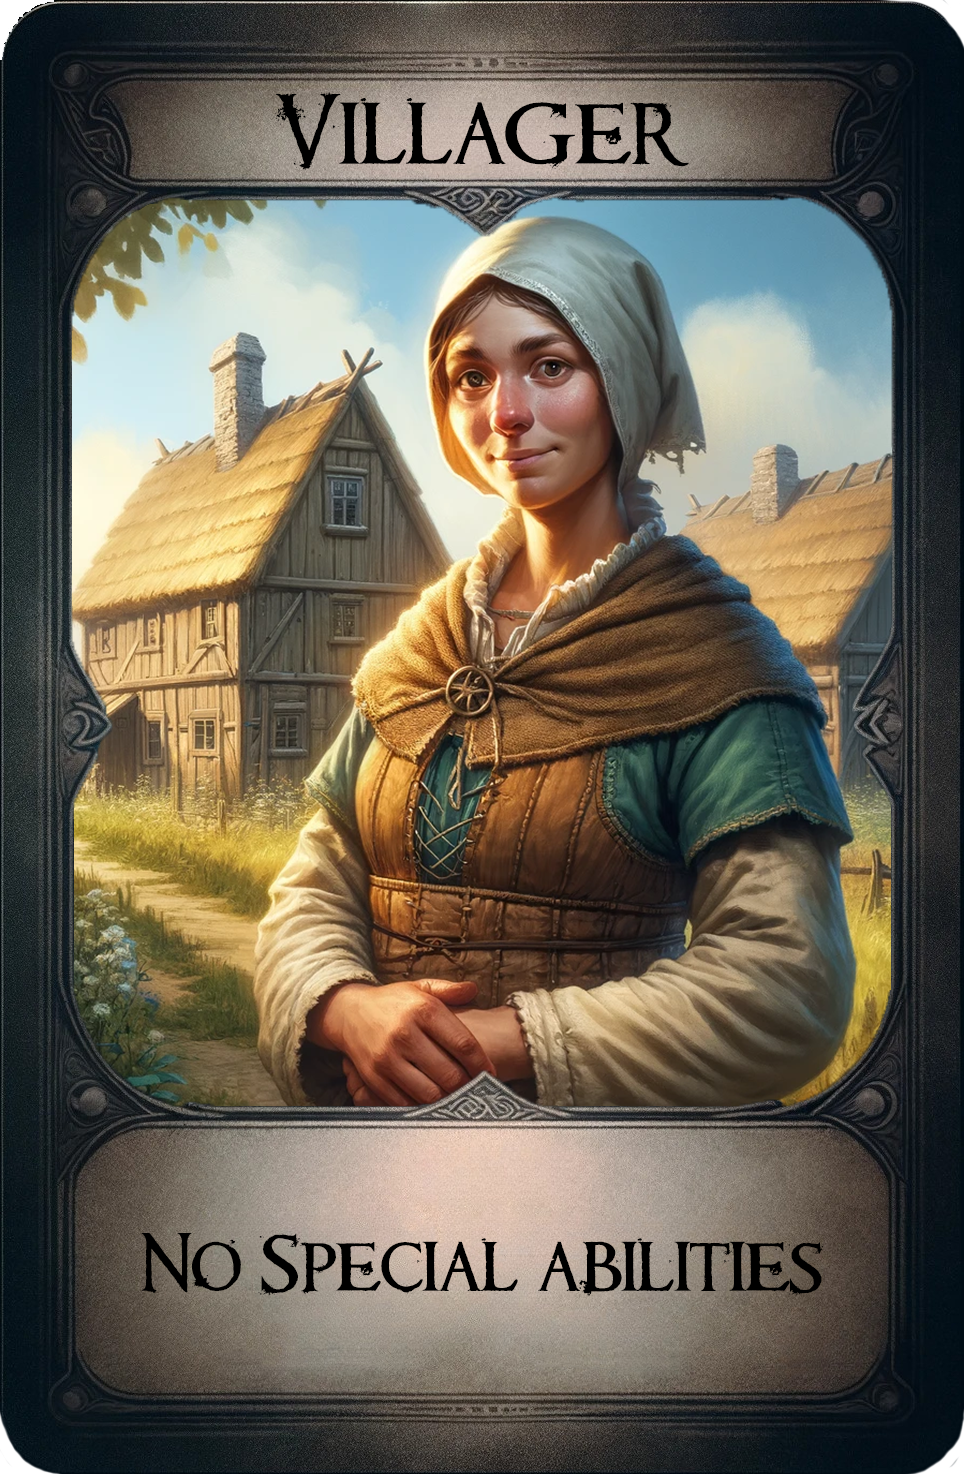
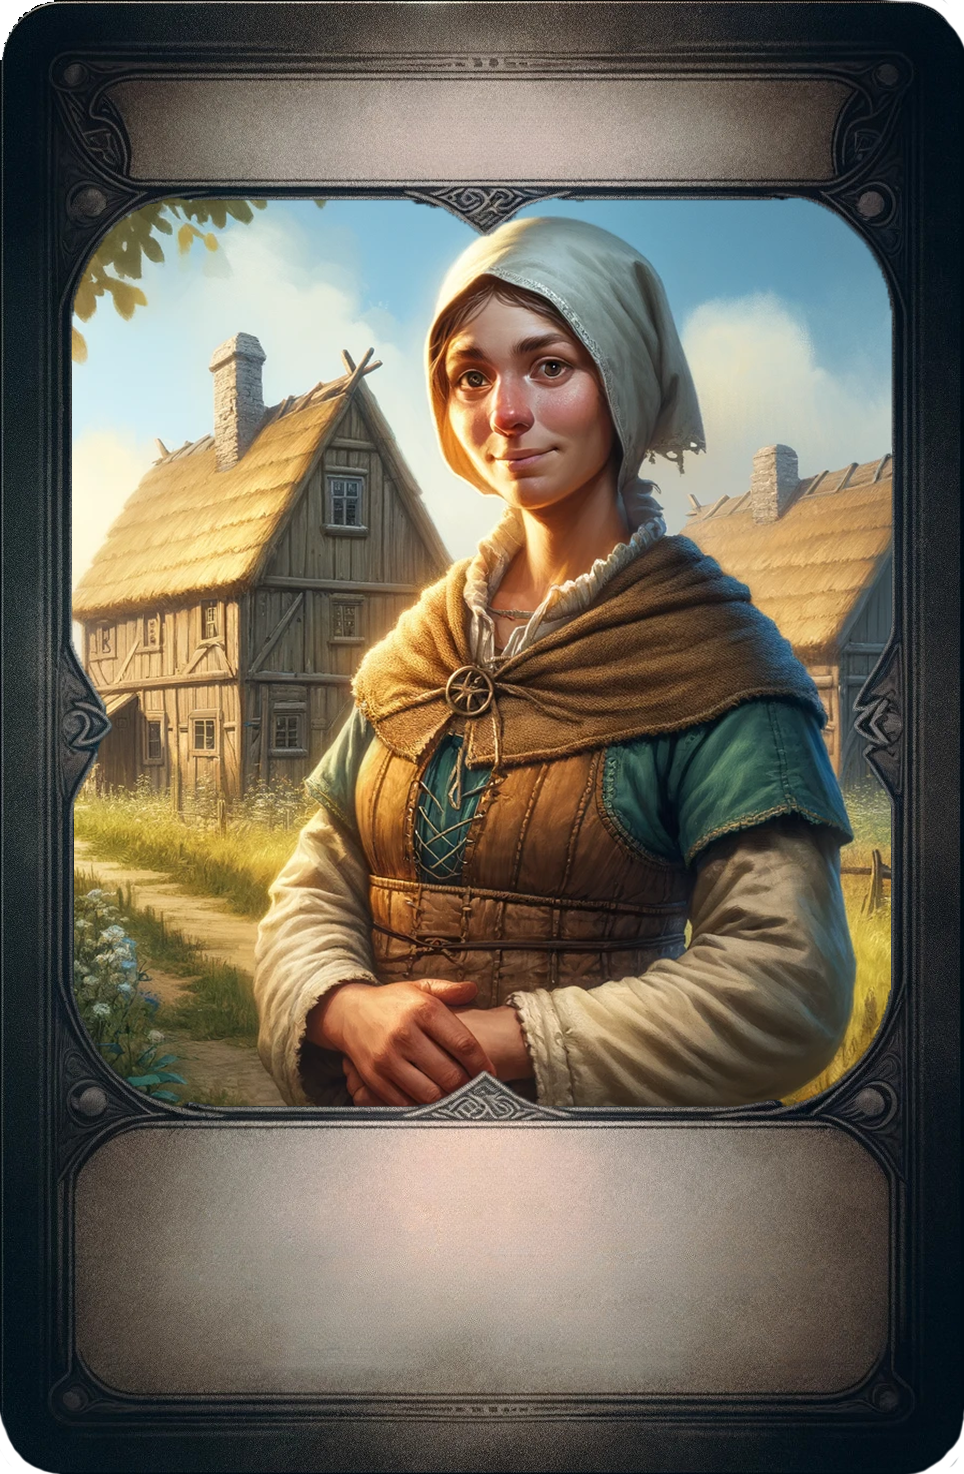
webrtc

Changed region(s): [[0.2801, 0.0624, 0.7158, 0.1248], [0.1245, 0.8114, 0.529, 0.8738], [0.5602, 0.8426, 0.8714, 0.8738]]

diff --git a/background.html b/background.html
@@ -9,6 +9,11 @@
             margin: 0;
         }
 
+        @font-face {
+            font-family: Vinque;
+            src: url(vinque.ttf);
+        }
+
         #main-container {
             background-color: #1c1700;
             background-image: url(https://www.transparenttextures.com/patterns/fabric-1-light.png);
@@ -124,16 +129,25 @@
             color: black;
         }
 
+        @container card-desc-container (min-width: 700px) {
+            div {
+                font-size: 12em;
+            }
+        }
+
         .card-desc {
+            display: flex;
+            align-items: center;
+            justify-content: center;
+            container-name: card-desc-container;
             position: absolute;
             color: black;
-            top: 295px;
+            top: 292px;
             left: 30px;
-            font-size: 14px;
             font-family: sans-serif;
             font-weight: bold;
             width: 195px;
-            height: 50px;
+            height: 66px;
         }
 
 
@@ -184,7 +198,7 @@
                 <div class="back">
                     <img src="Seer.png">
                     <div class="card-title">Seer</div>
-                    <div class="card-desc">When the Seer wakes up, and they can either look at a player's card, or 2 cards in the center.
+                    <div class="card-desc">Can either look at a player's card, or 2 cards in the center
 
                     </div>
                 </div>
@@ -198,7 +212,10 @@
                 </div>
                 <div class="back">
                     <img src="Villager.png">
-                </div>
+                    <div style="font-family: Vinque;" class="card-title">Villager</div>
+                    <div style="font-family: Vinque; font-weight: normal" class="card-desc">No special abilities
+
+                    </div>
             </div>
         </div>
     </div>
